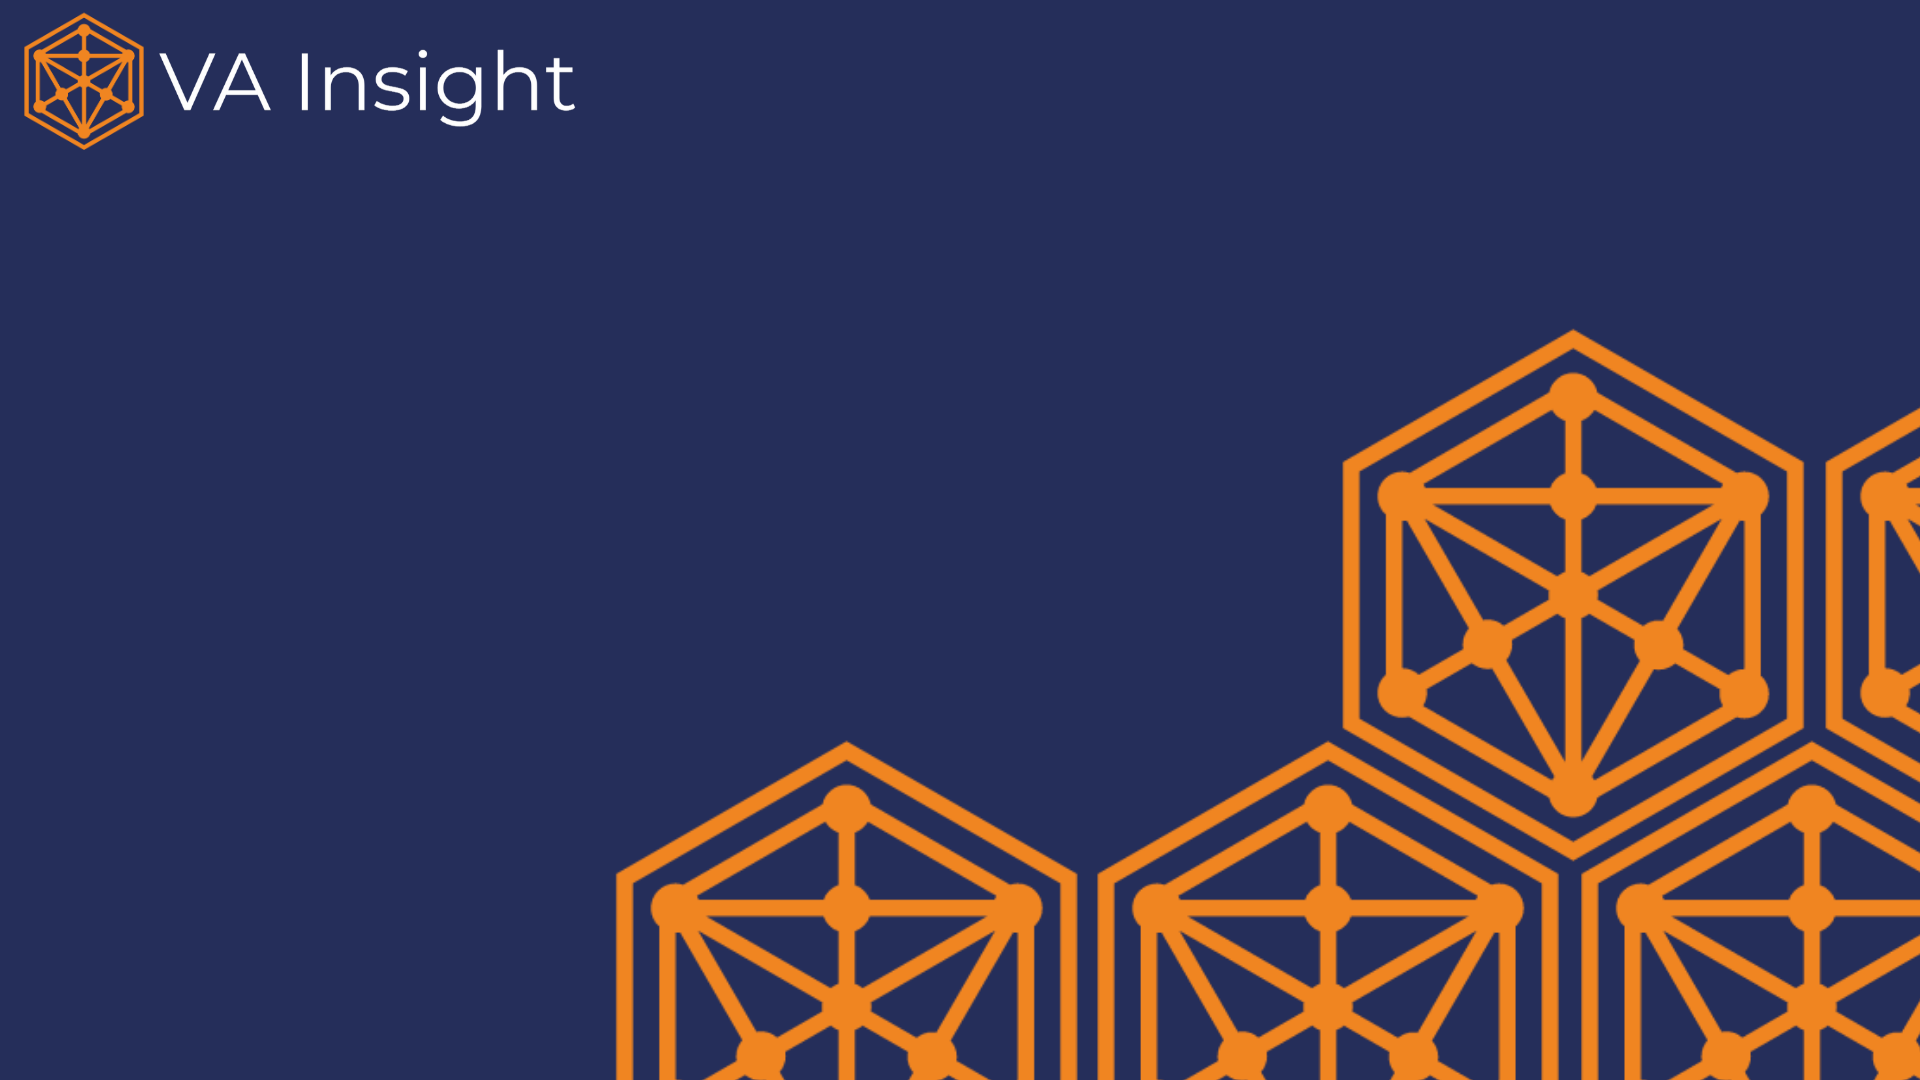
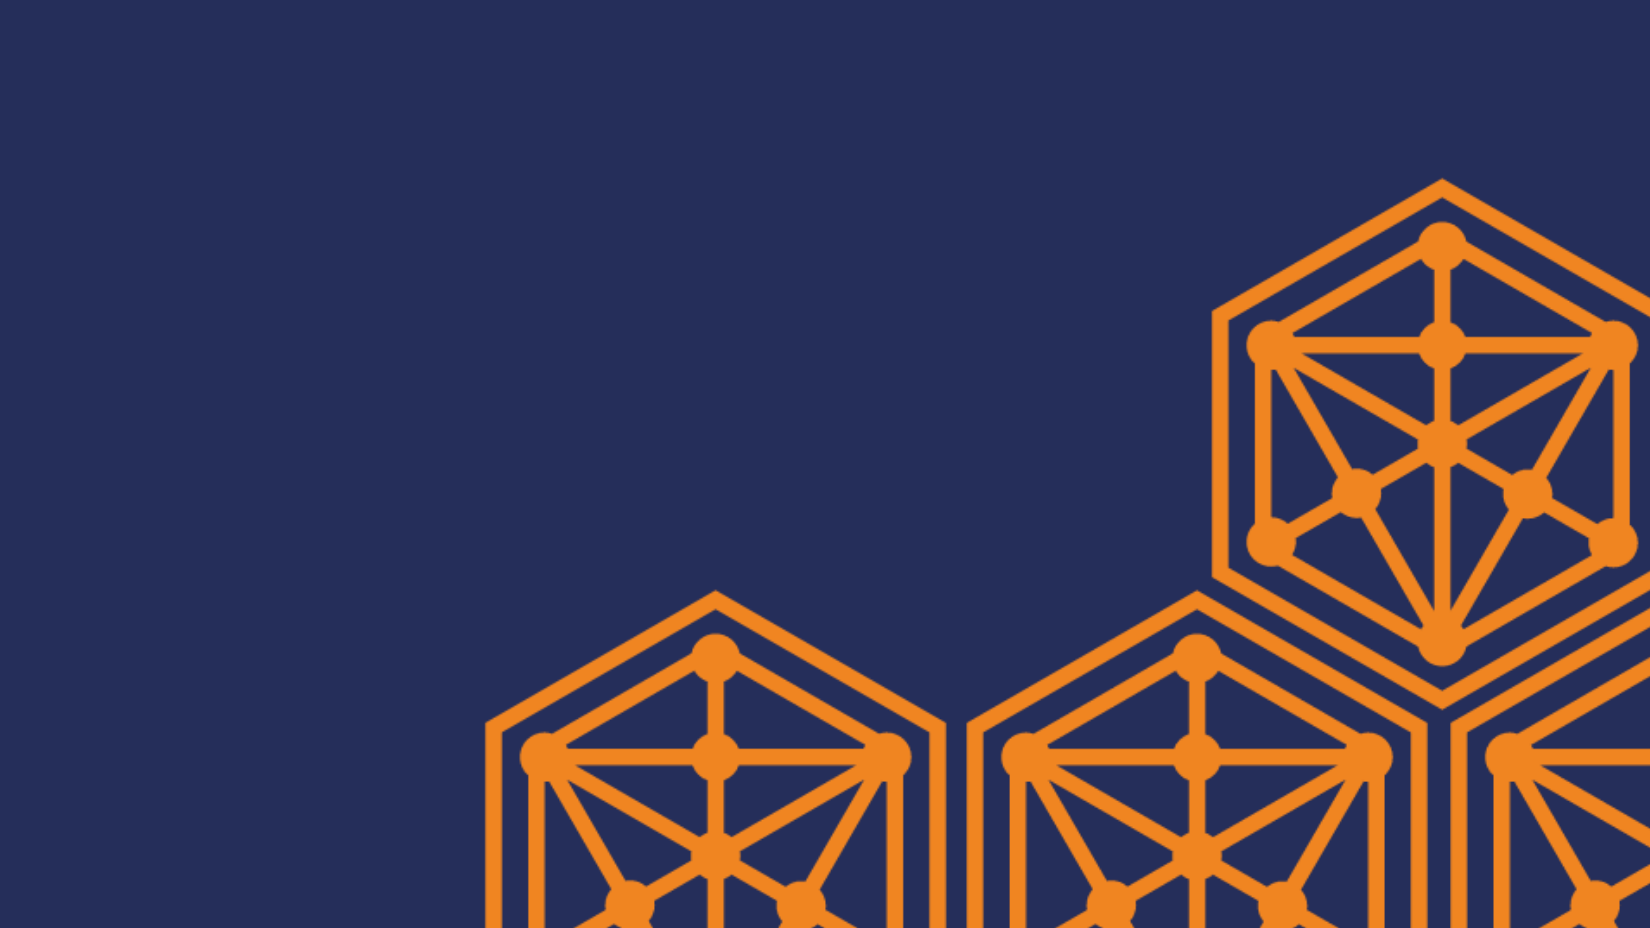
Login

Changed region(s): [[0.2782, 0.1875, 1.0, 1.0], [0.0, 0.0, 0.3091, 0.1562]]

diff --git a/src/modules/auth/views/Login.vue b/src/modules/auth/views/Login.vue
@@ -1,27 +1,103 @@
 <template>
-  <div class="login">
-    <md-field>
-      <label>Password toggle</label>
-      <md-input v-model="password" type="password"></md-input>
-    </md-field>
+  <div class="login" :style="backgroundStyle">
+    <md-card md-theme="va-theme" class="login-box">
+      <md-card-media>
+        <img src="../../../assets/VAPPPPLogo_bigger.png" alt="Logo">
+      </md-card-media>
 
-    <md-field :md-toggle-password="false">
-      <label>Password field without toggle</label>
-      <md-input v-model="password" type="password"></md-input>
-    </md-field>
+      <md-card-header>
+        <div class="md-title login-title"><strong>Login</strong></div>
+      </md-card-header>
+      <form @submit.prevent="loginSubmit()">
+        <md-card-content style="text-align: left">
+          <md-field md-clearable>
+            <label>Email</label>
+            <md-input v-model="$v.email.$model" type="email"/>
+          </md-field>
+
+          <md-field>
+            <label>Password</label>
+            <md-input v-model="$v.password.$model" type="password"/>
+          </md-field>
+        </md-card-content>
+
+        <md-card-actions>
+          <md-button class="md-raised md-accent" type="submit">Login</md-button>
+        </md-card-actions>
+      </form>
+    </md-card>
   </div>
 </template>
 
 <script>
+import { mapActions } from 'vuex'
+import { validationMixin } from 'vuelidate'
+import { required } from 'vuelidate/lib/validators'
+import TokenService from "@/modules/auth/services/token.service";
+
 export default {
   name: 'Login',
   data: () => ({
-    username: null,
-    password: null
-  })
+    email: null,
+    password: null,
+    backgroundStyle: {
+      backgroundImage: `url(${require('@/assets/loginBG.png')})`
+    }
+  }),
+  mixins: [validationMixin],
+  validations: {
+    email: {
+      required
+    },
+    password: {
+      required
+    }
+  },
+  methods: {
+    ...mapActions('auth', {
+      setAccessToken: 'setAccessToken'
+    }),
+    loginSubmit () {
+      this.$v.$touch()
+
+      if (!this.$v.$invalid) {
+        TokenService.saveToken(1)
+        this.$router.push('/')
+      }
+    },
+    clear () {
+      this.email = null
+      this.password = null
+    }
+  }
 }
 </script>
 
 <style scoped>
+.login {
+  height: 93%;
+  width: 100%;
+  display: flex;
+  justify-content: center;
+  align-items: center;
+}
 
+.login-box {
+  width: 25%;
+  height: 55%;
+  min-width: 355px;
+  background: rgba(255, 254, 254, 0.5);
+  box-shadow: 0px 10px 4px rgba(0, 0, 0, 0.25);
+  padding: 1em;
+}
+
+.login-title {
+  text-align: left;
+  font-size: 30px;
+  color: #090B3A;
+}
+
+.md-card-header {
+  padding-top: 0px;
+}
 </style>

diff --git a/src/components/TopBar.vue b/src/components/TopBar.vue
@@ -3,27 +3,28 @@
     <div class="md-title" style="flex: 1">
       <img alt="Logo" class="logo-item" src="../assets/VAPPPPLogo.png">
     </div>
-    <md-button>Home</md-button>
-    <md-button>Resources</md-button>
-    <md-button>VATracker</md-button>
-    <md-button>Support</md-button>
-    <md-button class="md-icon-button md-dense">
-      <md-icon>person</md-icon>
-    </md-button>
+    <div class="topbar-actions">
+      <md-button>Home</md-button>
+      <md-button>Resources</md-button>
+      <md-button>VATracker</md-button>
+      <md-button>Support</md-button>
+      <md-button class="md-icon-button md-dense">
+        <md-icon>person</md-icon>
+      </md-button>
+    </div>
   </md-toolbar>
 </template>
 
 <script>
+
 export default {
-  name: "TopBar",
-  props: {
-    isLoggedIn: {
-      type: Boolean,
-      default: false
-    }
-  }
+  name: "TopBar"
 }
 </script>
 
 <style scoped>
+.topbar-actions {
+  display: flex;
+  align-items: center;
+}
 </style>

diff --git a/src/modules/auth/services/token.service.js b/src/modules/auth/services/token.service.js
@@ -1,5 +1,5 @@
+
 const TOKEN_KEY = 'aToken'
-const REFRESH_TOKEN_KEY = 'rToken'
 
 /**
  * Manage the how Access Tokens are being stored and retreived from local storage.
@@ -7,29 +7,17 @@ const REFRESH_TOKEN_KEY = 'rToken'
 
 const TokenService = {
   getToken () {
-    return localStorage.getItem(TOKEN_KEY)
+    return sessionStorage.getItem(TOKEN_KEY)
   },
 
   saveToken (accessToken) {
-    localStorage.setItem(TOKEN_KEY, accessToken)
+    sessionStorage.setItem(TOKEN_KEY, accessToken)
   },
 
   removeToken () {
-    localStorage.removeItem(TOKEN_KEY)
-  },
-
-  getRefreshToken () {
-    return localStorage.getItem(REFRESH_TOKEN_KEY)
-  },
-
-  saveRefreshToken (refreshToken) {
-    localStorage.setItem(REFRESH_TOKEN_KEY, refreshToken)
-  },
-
-  removeRefreshToken () {
-    localStorage.removeItem(REFRESH_TOKEN_KEY)
+    sessionStorage.removeItem(TOKEN_KEY)
   }
 }
 
-export { TOKEN_KEY, REFRESH_TOKEN_KEY }
+export { TOKEN_KEY }
 export default TokenService

diff --git a/src/modules/auth/store/index.js b/src/modules/auth/store/index.js
@@ -1,7 +1,14 @@
 import state from './state'
+import actions from './actions'
+import mutations from './mutations'
+import getters from './getters'
 
 const namespaced = true
+
 export default {
-    namespaced,
-    state
+  namespaced,
+  state,
+  getters,
+  actions,
+  mutations
 }

diff --git a/src/styles.scss b/src/styles.scss
@@ -12,7 +12,14 @@ $orange: #F2994A;
   -moz-osx-font-smoothing: grayscale;
   text-align: center;
   color: #2c3e50;
+  height: 100%;
 }
+
+body {
+    background: #f9f9f9;
+    height: 100%;
+}
+
 
 a {
     color: #313947;

diff --git a/src/store.js b/src/store.js
@@ -1,6 +1,6 @@
 import Vue from 'vue'
 import Vuex from 'vuex'
-import { modules } from '@/modules/'
+import { modules } from '@/modules'
 
 Vue.use(Vuex)
 

diff --git a/src/modules/auth/store/state.js b/src/modules/auth/store/state.js
@@ -1,3 +1,3 @@
 export default {
-  accessToken: null
+    accessToken: null
 }

diff --git a/src/modules/auth/store/actions.js b/src/modules/auth/store/actions.js
@@ -1,0 +1,2 @@
+export default {
+}

diff --git a/src/modules/auth/store/getters.js b/src/modules/auth/store/getters.js
@@ -1,0 +1,2 @@
+export default {
+}

diff --git a/src/modules/auth/store/mutations.js b/src/modules/auth/store/mutations.js
@@ -1,0 +1,1 @@
+export default {}
